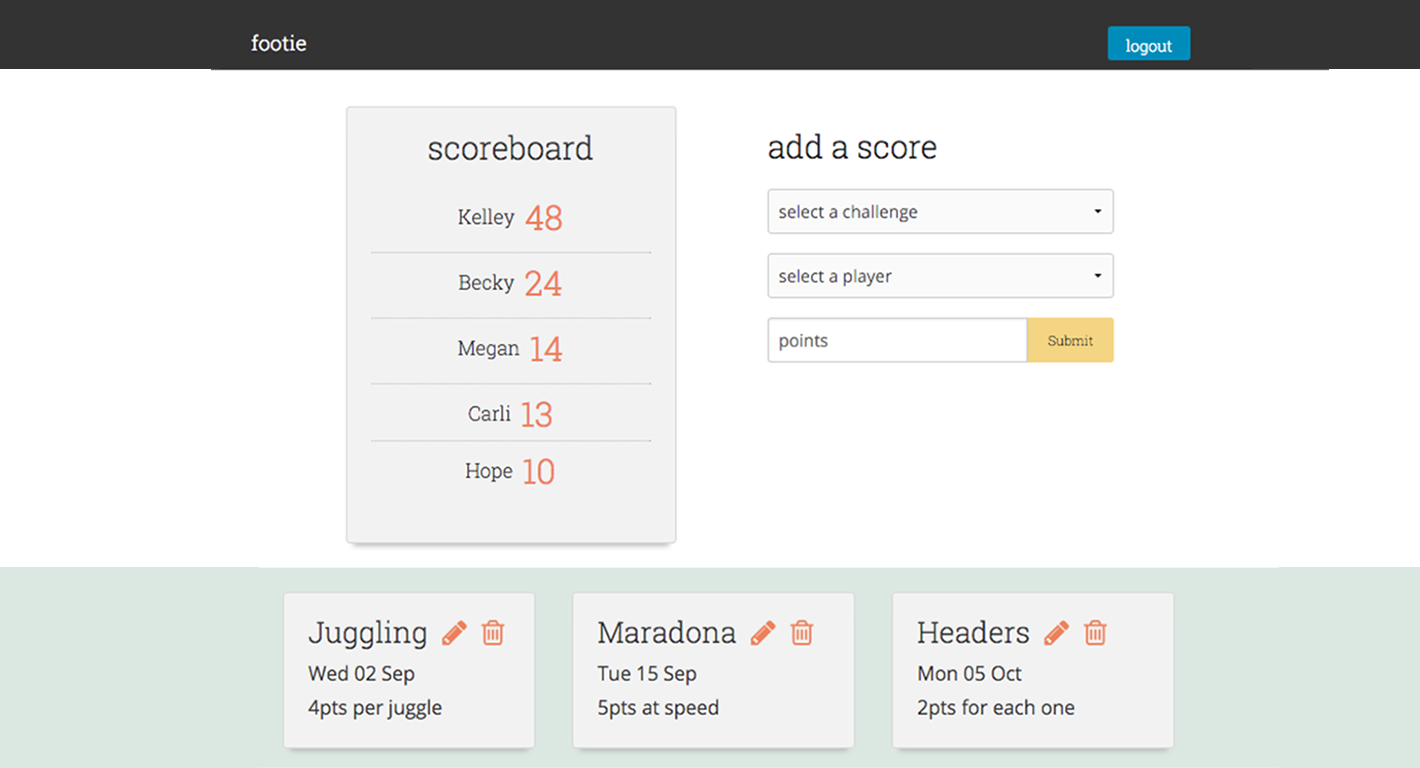
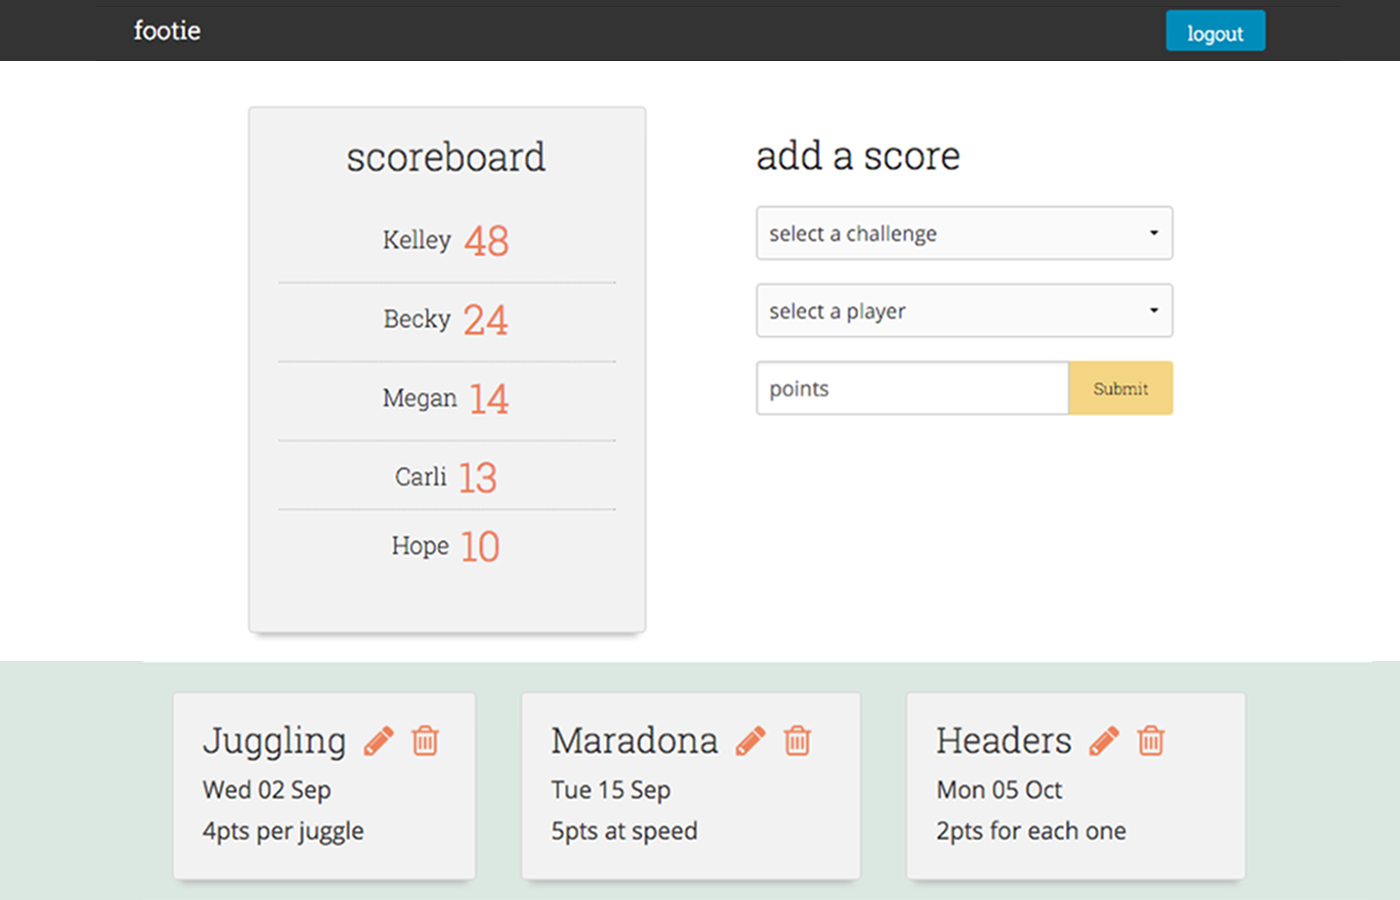
WIP footer

diff --git a/source/stylesheets/_base.css.scss b/source/stylesheets/_base.css.scss
@@ -16,10 +16,6 @@ html {
 nav + section { clear: both;}
 
 @media only screen and (max-width: 723px) {
-  // .bground {
-  //   height: 1325px;
-  //   top: -1325px;
-  // }
   body { height: $small-screen-height;}
 }
 
@@ -52,30 +48,21 @@ section {
 
 h1,h3 {
   font-family: $display-font;
-  font-size: 2em;
-}
-
-h3 {
   font-weight: 700;
-  color: $green;
-  letter-spacing: 2px;
 }
 
 h1 {
-  color: $purple;
-  letter-spacing: 1px;
+  color: $trans-white-85;
+  font-size: 2.5em;
+  letter-spacing: 0.5px;
 }
 
-
-i[class*="fa-"] {
-  color: #05756f;
-  }
-
-footer {
-  i[class*="fa-"] {
-  font-size: 200%;
-  }
+h3 {
+  font-size: 2em;
+  color: $green;
 }
+
+i { color: $green;}
 
 /*******************************
           links
@@ -83,6 +70,4 @@ footer {
 
 a { color: $green;}
 
-a:hover, a:active, i[class*="fa-"]:hover, i[class*="fa-"]:active {
-  color: $orange;
-}
+a:hover, a:active, i:hover, i:active { color: $orange;}

diff --git a/source/stylesheets/_variables.css.scss b/source/stylesheets/_variables.css.scss
@@ -1,11 +1,13 @@
 @import url(https://fonts.googleapis.com/css?family=Amatic+SC:400,700);
-@import url(https://maxcdn.bootstrapcdn.com/font-awesome/4.5.0/css/font-awesome.min.css);
+@import url(https://cdnjs.cloudflare.com/ajax/libs/semantic-ui/2.1.8/components/icon.min.css);
 
 $orange: #fd513b;
 $purple: #290823;
 $green: #05756f;
 $blue: #0f7998;
+$trans-white-25: rgba(255, 255, 255, 0.25);
+$trans-white-85: rgba(255, 255, 255, 0.85);
 $display-font: 'Amatic SC';
-$box-shadow: -2px 2px 20px #7C7C7D;
+$box-shadow: -2px 2px 15px rgba(124, 124, 125, 0.39);
 $large-screen-height: 1185px;
 $small-screen-height: 2250px;

diff --git a/source/stylesheets/modules/_projects.css.scss b/source/stylesheets/modules/_projects.css.scss
@@ -1,6 +1,19 @@
 .project {
+  background: $trans-white-25 center center fixed;
+  // background-size: cover;
+  padding-top: 3px;
+  padding-bottom: 3px;
+
   img {
-    border-radius: 2px;
+    border-radius: 3px;
+    box-shadow: $box-shadow;
+  }
+
+  .tags {
+    .ui.label {
+      background-color: $green;
+      color: white;
+    }
   }
 
   .info {
@@ -19,10 +32,4 @@
     }
   }
 
-  .tags {
-    .ui.label {
-      background-color: $green;
-      color: white;
-    }
-  }
 }

diff --git a/source/stylesheets/all.css.scss b/source/stylesheets/all.css.scss
@@ -7,27 +7,9 @@
 @import "modules/projects";
 @import "modules/navs";
 @import "modules/about";
+@import "modules/footer";
 
 
 @charset "utf-8";
-
-
-
-// section, div, article {
-//   border: 1px solid red;
-// }
-
-
-
-// .bground {
-//   height: 500px;
-//   background-color: white;
-//   opacity: 0.25;
-//   position: relative;
-//   top: -595px;
-//   z-index: -1;
-// }
-
-
 
 
